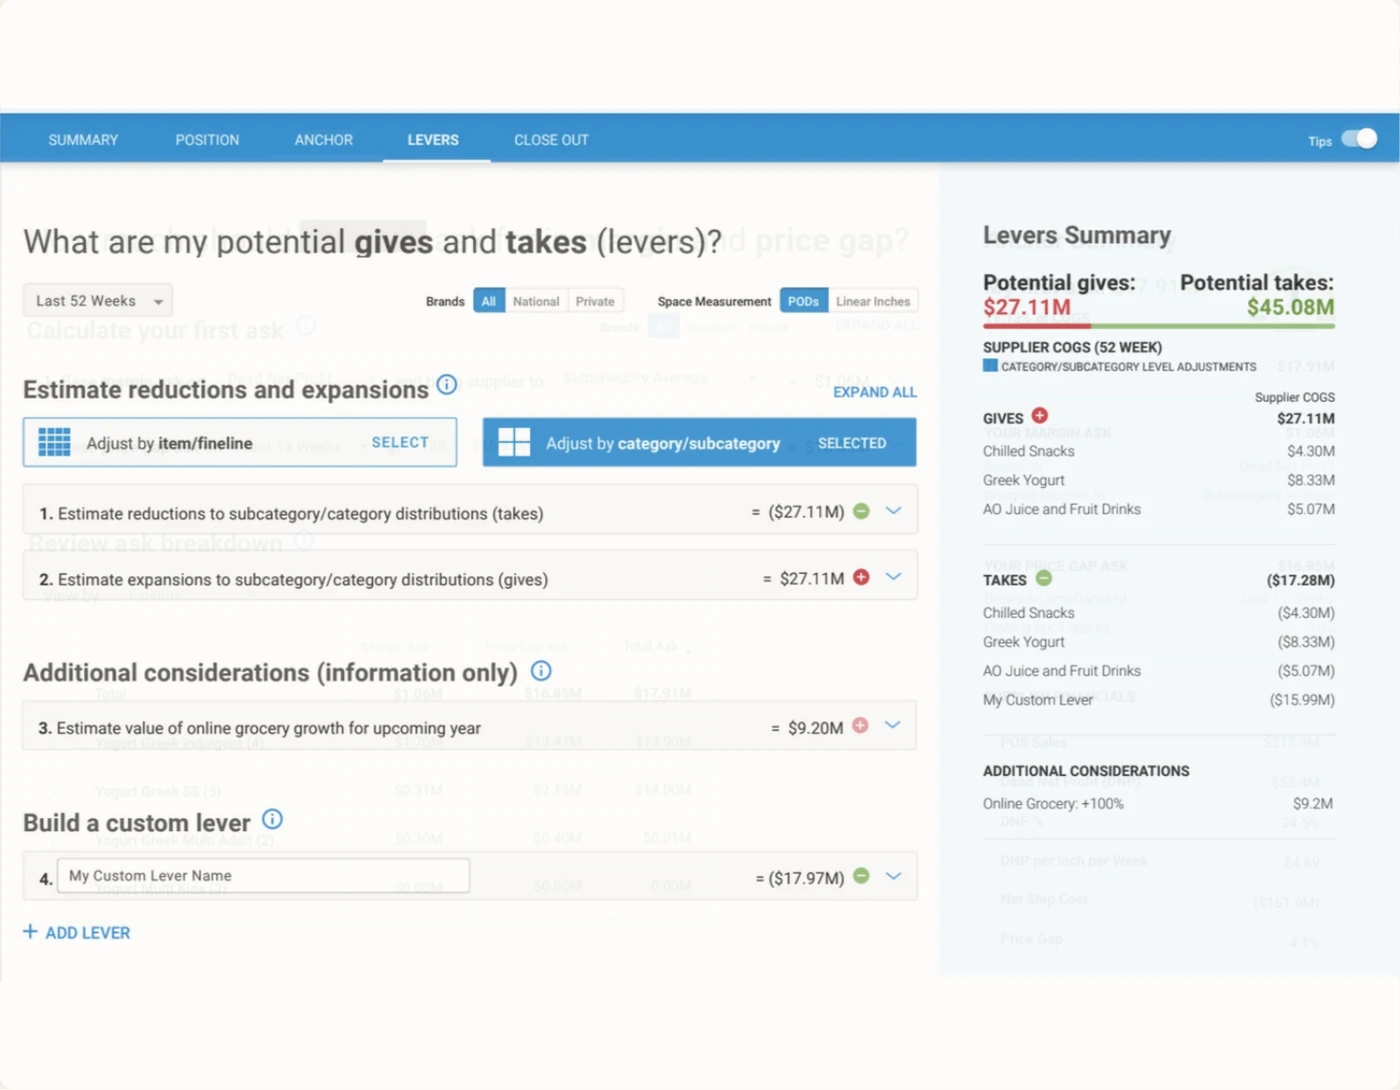
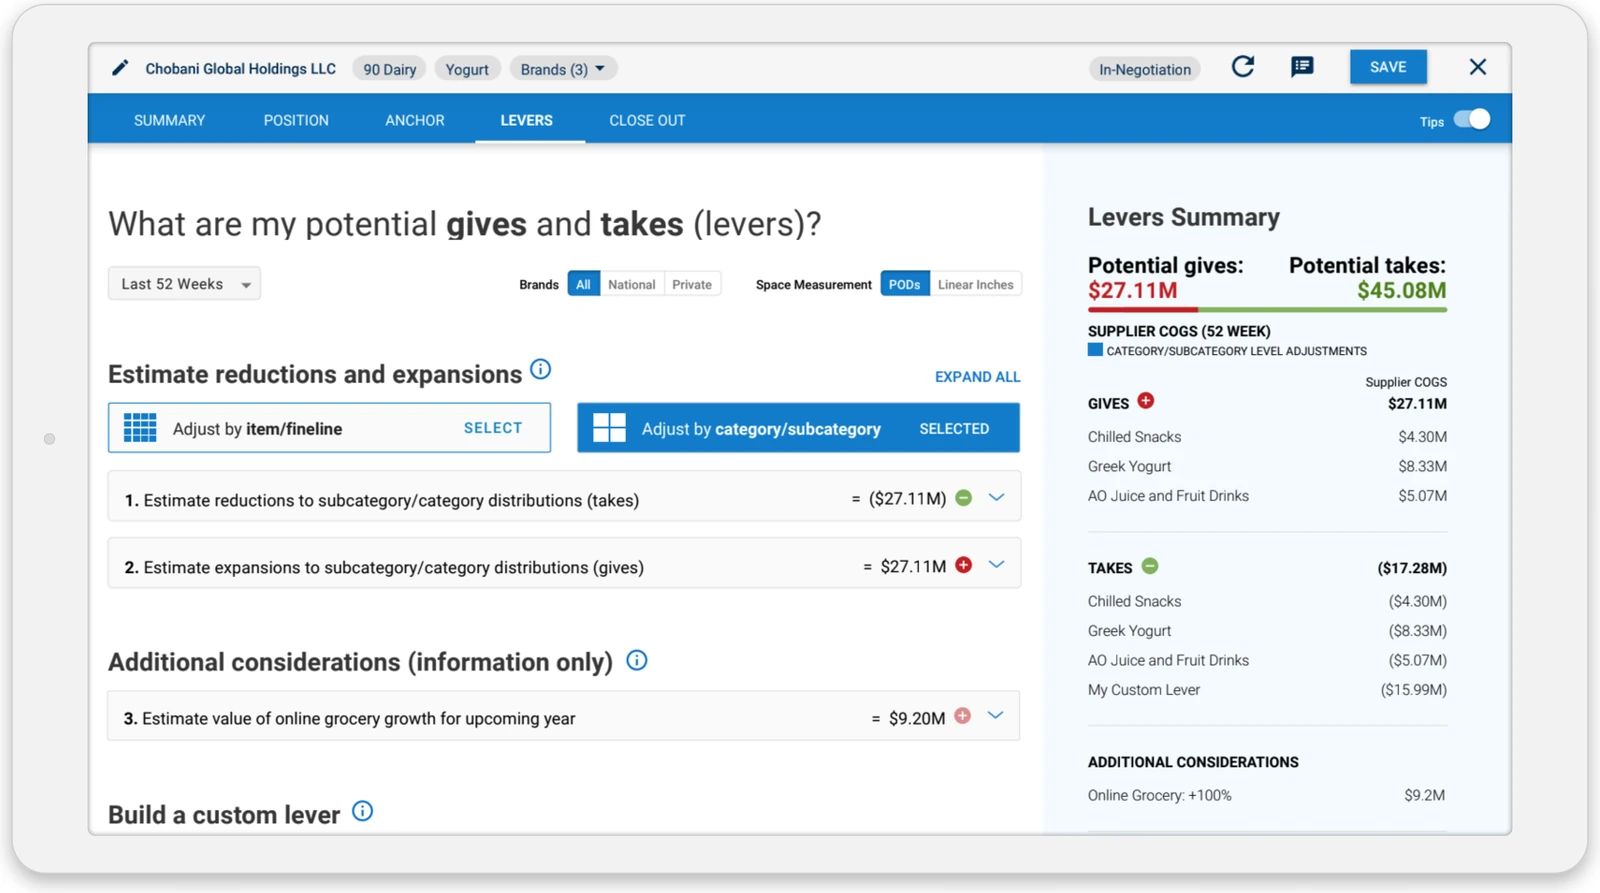
Add files via upload

diff --git a/walmart.html b/walmart.html
@@ -252,7 +252,7 @@
           <h3 class="ph">$10M unlocked before the tool officially launched</h3>
           <p>Before the official launch, a buyer used the tool in a trial negotiation and achieved <b>$10M in savings</b>, from a supplier they had previously failed to move. It replaced guesswork with a repeatable, data-grounded negotiation process the team could run again and again. Buyers reported a repeatable process grounded in strategy, new confidence going into critical negotiations, and stronger alignment across functional teams.</p>
         </div>
-        <div class="csx-gif" style="aspect-ratio:1400/1090;max-width:70%;margin:26px auto 0">
+        <div class="csx-gif" style="aspect-ratio:1600/893;margin-top:26px">
           <img class="on" src="wmn-ov.webp" alt="The negotiation tool — scenario overview">
           <img src="wmn-pos.webp" alt="Position tab — reading the buyer's leverage">
           <img src="wmn-anchor.webp" alt="Anchor tab — calculating the first ask">
